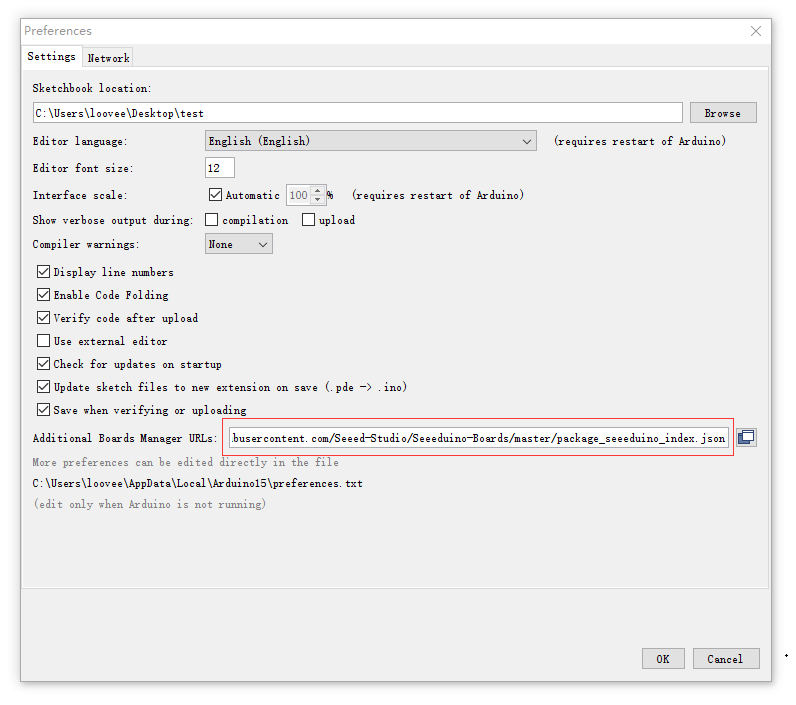
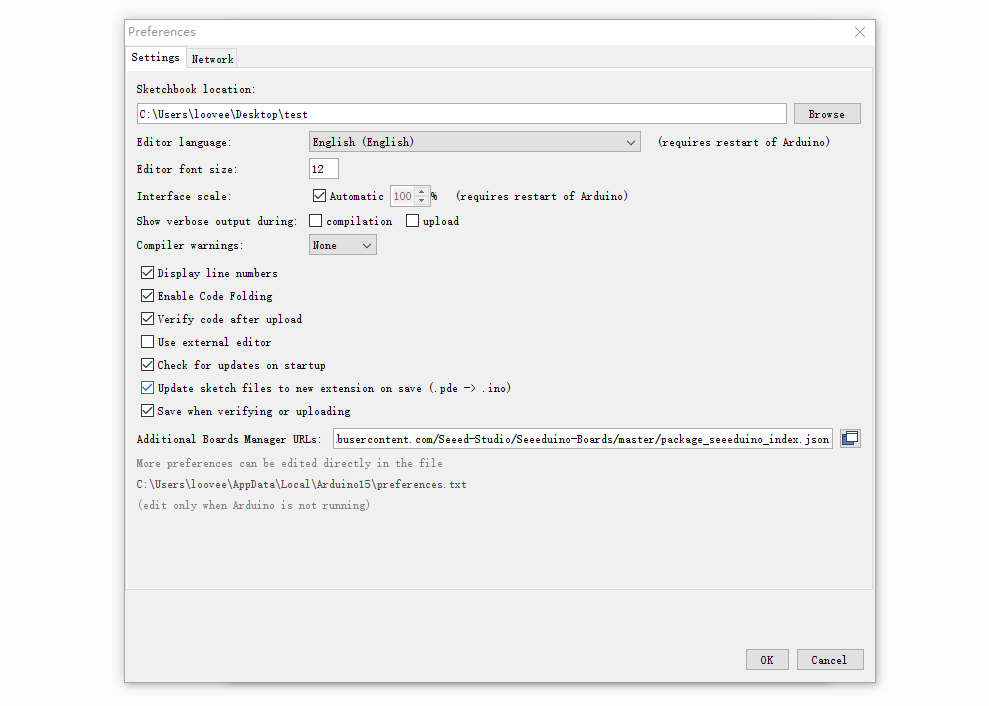
.

Changed region(s): [[0.0, 0.0312, 0.995, 0.9986], [0.0302, 0.9674, 0.1206, 0.9986], [0.7538, 0.905, 0.7839, 0.9674]]

diff --git a/SeeeduinoV4.2.md b/SeeeduinoV4.2.md
@@ -1,30 +1,68 @@
-#Seeeduino V4.2
+#Seeeduino V4
 -------
 ##Introduction
 
-Seeeduino v4.2 is an Open Source, Arduino-compatible ATmega328 MCU development board. We think Seeeduino v4.2 is one of the best Arduino derivatives/compatibles available. Seeeduino v4.2 is feature rich, much more stable, easy-to-use and even good looking.
+![enter image description here](https://raw.githubusercontent.com/SeeedDocument/SeeeduinoV4/master/images/cover.JPG)
 
-Seeeduino v4.2 is based the Arduino UNO bootloader, an ATmega16U2 as a UART-to-USB converter (basically work like an FTDI USB2UART chip). The board comes with an additional set of through-hole pads for all pins. These pads are aligned to 0.1" grid. This makes it easy to solder additional pin-headers to plug into breadboard or create your own attachment/shield with 0.1" dot-matrix general purpose PCBs.
+Seeeduino v4 is an Open Source, Arduino-compatible ATmega328 MCU development board. We think Seeeduino v4 is one of the best Arduino derivatives/compatibles available. Seeeduino v4 is feature rich, much more stable, easy-to-use and even good looking.
+
+Seeeduino v4 is based the Arduino UNO bootloader, an ATmega16U2 as a UART-to-USB converter (basically work like an FTDI USB2UART chip). The board comes with an additional set of through-hole pads for all pins. These pads are aligned to 0.1" grid. This makes it easy to solder additional pin-headers to plug into breadboard or create your own attachment/shield with 0.1" dot-matrix general purpose PCBs.
 
 
 You can program the board via a micro-USB cable. Also, you can power the board via a DC Jack input (7 to 15V DC) is acceptable. There is a switch to choose the system's supply voltage either 3.3V or 5V, which is very useful if you want to set the system to 3.3V to interact with low voltage sensors.
 
 Finally, the three on-board Grove interfaces can make your board connect to Grove modules easily. Want to make something awesome, maybe just a Seeeduino v4.2 and some Groves is enough.
 
-![](http://www.seeedstudio.com/wiki/images/7/7a/SeeeduinoV4.2_View.JPG)
 
 
+###Version
+
+This document applies to the following version of products:
+
+|Version|Released Date|How to Buy|
+|--------|-----------|-----------|
+|Seeeduino V4.0 |Aug 15, 2014|![enter image description here](https://raw.githubusercontent.com/SeeedDocument/Seeed-WiKi/master/docs/images/EOL.png)|
+|Seeeduino V4.2 |Aug 24, 2015|[![enter image description here](https://raw.githubusercontent.com/SeeedDocument/Seeed-WiKi/master/docs/images/get_one_now_small.png)](http://www.seeedstudio.com/Seeeduino-V4.2-p-2517.html)|
+
+###What's New in Seeeduino V4.2
+
+There're many updates from V4.0 to V4.2. Listed below:
+
+- Cancel some pad on the top left corner.
+- Change the usb location to middle
+- Improve DCDC circuit to get a better performance
+- Add an I2C Grove connector
+- Change some silkscreen and part location
+
+##Application Ideas
+
+* DIY
+* IoT and Smart Home
+* Robot
+* Learning
+
+Here is some funny project for your reference.
+
+|Paper Man|Fingerprint Lock|Monitor Stand|
+|-------|-------|-------|
+|![](https://raw.githubusercontent.com/SeeedDocument/SeeeduinoV4/master/images/project1.jpg)|![enter image description here](https://raw.githubusercontent.com/SeeedDocument/SeeeduinoV4/master/images/project2.jpg)|![enter image description here](https://raw.githubusercontent.com/SeeedDocument/SeeeduinoV4/master/images/project3.jpg)|
+| [Make it Now](http://www.instructables.com/id/Paper-Man-a-machine-created-by-Arduino-and-NFC/) | [Make it Now](http://www.instructables.com/id/Door-to-Open-Source-Hardware-A-fingerprint-lock-so/) | [Make it Now](http://www.instructables.com/id/DIY-a-Programmable-Acrylic-Monitor-Stand/)|
+
+|Desk Promo|Tiger Machine|Colorful Pyramid|
+|-------|-------|-------|
+|![](https://raw.githubusercontent.com/SeeedDocument/SeeeduinoV4/master/images/project4.jpg)|![enter image description here](https://raw.githubusercontent.com/SeeedDocument/SeeeduinoV4/master/images/project5.jpg)|![enter image description here](https://raw.githubusercontent.com/SeeedDocument/SeeeduinoV4/master/images/project6.jpg)|
+| [Make it Now](http://www.instructables.com/id/Desk-promo/) | [Make it Now](http://www.instructables.com/id/How-to-Make-Your-Tiny-Tiger-Machine/) | [Make it Now](http://www.instructables.com/id/DIY-a-colorful-pyramid/)|
 
 ##Features
 
+- Fully compatible with Arduino UNO
 - ATmega328 microcontroller
-- Arduino UNO bootloader
 - 14 Digital I/O Pins (6 PWM outputs)
 - 6 Analog Inputs
 - ISP Header
 - Arduino UNO-R3 Shield Compatible
 - Micro USB programming and power supply
-- 3 on-board Grove connectors
+- On-board Grove connectors
 - 3.3/5V system operation power switch
 - Additional pads aligned to 0.1" grid
 
@@ -39,7 +77,6 @@ Finally, the three on-board Grove interfaces can make your board connect to Grov
 |5V Pin | With DC Jack Power	2000mA Max|
 |3V3 Pin|	500mA Max|
 |DC Current per I/O Pin	|40mA|
-|Other specifications|
 |Flash Memory|	32 KB|
 |RAM|	2 KB|
 |EEPROM	|1 KB|
@@ -49,22 +86,26 @@ Finally, the three on-board Grove interfaces can make your board connect to Grov
 
 
 #Hardware Overview
-The images below shows an overview of Seeeduino v4.2 hardware features. The pin-out and alternate functions of various pins of Seeeduino v4.2 are shown in the pin-out diagram. This could be used as a quick reference.
 
-![enter image description here](http://www.seeedstudio.com/wiki/images/thumb/d/d1/SeeeduinoV4.2_Hw_overview.JPG/750px-SeeeduinoV4.2_Hw_overview.JPG)
+!!!Note
+    This part is based on Seeeduino V4.2
+
+The images below show an overview of Seeeduino v4.2 hardware features. The pin-out and alternate functions of various pins of Seeeduino v4.2 are shown in the pin-out diagram. This could be used as a quick reference.
+
+![enter image description here](https://raw.githubusercontent.com/SeeedDocument/SeeeduinoV4/master/images/hardware.JPG)
 
 - **LED-D13**
 An LED is connected to D13 pin of the board. This can be used as an on-board LED indicator for programs/sketches.
 - **USB Input**
 USB Port is used to connect the board to your PC for programming and for powering up. Micro USB is the ubiquitous version of USB, found in most Android phones, and other devices. You probably have dozens of these cables laying around your house.
 - **RX/TX Indicator**
-The TX and RX LED indicators are connected to Txd and Rxd of USB-to-UART chip. They work automatically, they let you know when the board is sending or receiving data respectively.
+The TX and RX LED indicators are connected to TX and RX of USB-to-UART chip. They work automatically, they let you know when the board is sending or receiving data respectively.
 - **System Power Switch**
-Slide switch is used to change the logic level and operating voltage of the board to either 5V or 3.3V. Nowadays, many new and great sensors are being developed to work only with 3.3V, with other *duino boards you would need to place a logic level converter between the board and these sensor(s). With the Seeeduino V4.2 board all you have to do is slide the switch!
+Slide switch is used to change the logic level and operating voltage of the board to either 5V or 3.3V. Nowadays, many new and great sensors are being developed to work only with 3.3V, with other Arduino boards you would need to place a logic level converter between the board and these sensor(s). With the Seeeduino V4 board all you have to do is slide the switch!
 - **DC Input**
-The DC power jack allows your Seeeduino board to be powered from a wall adapter so that you can supply more power to your project if needed. For example when using DC motors or other high power devices. The DC input can be 7V-15V.
+The DC power jack allows your Seeeduino board to be powered from a wall adapter so that you can supply more power to your project if needed. For example, when using DC motors or other high power devices. The DC input can be 7V-15V.
 - **Reset**
-This button is conveniently placed on the side to allow you to reset the Seeeduino board even when a shield is placed on top. This is not the case in other -duino boards where the button is placed on top making it hard to access.
+This button is conveniently placed on the side to allow you to reset the Seeeduino board even when a shield is placed on top. This is not the case in other Arduino boards where the button is placed on top making it hard to access.
 - **Power Pins & Analog Pins**
 Just like the extra Digital header pads, these extra connections are something we have personally come to realize people need in their projects, especially the power connections if you want to power more than one sensor/device without the use of a breadboard.
 - **Grove Connectors**
@@ -74,95 +115,84 @@ This is the ICSP connection for the ATmega328P, it is located in the standard IC
 - **USB 2 Uart**
 Pinout of USB-2-Uart. These pads can be used to interact with other UART devices by putting the on-board ATmega328 in reset mode. This makes Seeeduino V4.2 to be used a USB2UART utility board.
 - **Additional 0.1" Grid aligned header Pads**
-Sometimes it is very convenient to connect a sensor/device to your board directly instead of going through a breadboard, or perhaps you want to solder the sensor directly to the board once you've completed your project, or maybe you want to monitor the output of the pins while they're been used by other devices. In any cases we have added these extra pads to help you along the way. These pads are aligned in 0.1" grid and can conveniently work with general purpose dot-matrix PCBs .
+Sometimes it is very convenient to connect a sensor/device to your board directly instead of going through a breadboard, or perhaps you want to solder the sensor directly to the board once you've completed your project, or maybe you want to monitor the output of the pins while they're been used by other devices. In any cases we have added these extra pads to help you along the way. These pads are aligned in 0.1" grid and can conveniently work with general purpose dot-matrix PCBs.
 
-**Note**: Take gentle care in handling micro USB socket, or you might break the socket off.
+!!!Warning
+    Take gentle care in handling micro USB socket, or you might break the socket off.
 
-##Getting Started
-The general steps in using Seeeduino v4.2 are
+##Install the Driver
 
-1. Download Arduino IDE software (for your platform)
-2. Install Drivers based on OS platform
-3. Compile and run your first sketch
+First of all, you need to:
 
-Let us see how to get started in detail based on OS platform.
-
-##Getting Started on Windows
-
-This part is based on the [Getting Started with Arduino on Windows](https://www.arduino.cc/en/Guide/Windows), click to view the original page.
-
-###Get a Micro-USB cable
-You need a Micro-USB cable first, the data cable of an Android Phone will do fine.
+* **Get a Micro-USB cable**
+    * You need a Micro-USB cable first; the data cable of an Android Phone will do fine.
 If you can't find one, you can buy one [here](http://www.seeedstudio.com/depot/Micro-USB-Cable-48cm-p-1475.html?cPath=98_100).
 
-###Download the Arduino Software (IDE)
-Get the latest version from the [download page](https://www.arduino.cc/en/Main/Software). When the download finishes, unzip the downloaded file.
+* **Connect the board**
+    * The Seeeduino V4.2 automatically draw power from either the USB connection to the computer or an external power supply. Connect the Arduino board to your computer using the USB cable. The green power LED (labelled **PWR**) should go on.
 
-###Connect the board
-The Seeeduino V4.2 automatically draw power from either the USB connection to the computer or an external power supply.
-Connect the Arduino board to your computer using the USB cable. The green power LED (labelled **PWR**) should go on.
 
-###Install the drivers
-####Installing drivers for the Seeeduino V4.2 with **Windows 7**, **Vista**, or **XP**
+###For Windows
+
+!!!Note
+    This drive is available for Windows XP, Windows Vista, Windows 7, Windows 8/8.1 and Windows 10.
+    
+[![enter image description here](https://raw.githubusercontent.com/SeeedDocument/SeeeduinoV4/master/images/download_driver.png)](https://github.com/Seeed-Studio/Signed_USB_Serial_Driver/archive/master.zip)
+
 - Plug in your board and wait for Windows to begin its driver installation process. After a few moments, the process will fail, despite best efforts.
 - Click on the Start Menu, and open up the Control Panel.
-- While in the Control Panel, navigate to System and Security. Next, click on System. Once the System window is up, open the Device Manager.
-- Look under Ports (COM & LPT). You should see an open port named "Seeeduino v4". If there is no COM & LPT section, look under "Other Devices" for "Unknown Device".
+- While in the Control Panel, navigate to System and Security. Next, click on System. Once the System window is up, open the **Device Manager**.
+- Look under Ports (COM & LPT). You should find an open port named "Seeeduino v4". If there is no COM & LPT section, look under "Other Devices" for "Unknown Device".
 - Right click on the "Seeeduino v4" port and choose the "Update Driver Software" option.
 - Next, choose the "Browse my computer for Driver software" option.
-- Download Driver for Seeeuino V4.2, and unzip to your PC.
 - Finally, navigate to and select the driver file named "SeeeduinoV4.inf"
 - Windows will finish up the driver installation from there.
-####Installing drivers for the Seeeduino V4.2 with Windows 8/8.1
-Firstly, you should disable the digital signature verification of your system. Follow the steps listed below:
-You should save these files which you are editing before installing driver in Window 8，because there will several power off/on during the operation.
-- Press “Windows Key” +”R”
-- Enter shutdown.exe /r /o /f /t 00
-- Click the "OK" button.
-- System will restart to a "Choose an option" screen
-- Select "Troubleshoot" from "Choose an option" screen
-- Select "Advanced options" from "Troubleshoot" screen
-- Select "Windows Startup Settings" from "Advanced options" screen
-- Click "Restart" button
-- System will restart to "Advanced Boot Options" screen
-- Select "Disable Driver Signature Enforcement"
-- Once the system starts, you can install the Seeeduino driver.
-- And the rest of the steps are same as Win7.
 
-![enter image description here](http://www.seeedstudio.com/wiki/images/c/cb/Seeeduino_v4.2_driver_1.jpg)
+###For Mac OSX
 
-![enter image description here](http://www.seeedstudio.com/wiki/images/8/80/Seeeduino_v4.2_driver_2.jpg)
+You don't need to install any drivers. 
 
-![enter image description here](http://www.seeedstudio.com/wiki/images/8/89/Seeeduino_v4.2_driver_3.jpg)
 
-![enter image description here](http://www.seeedstudio.com/wiki/images/8/80/Seeeduino_v4.2_driver_4.jpg)
+##Getting Started
 
-![enter image description here](http://www.seeedstudio.com/wiki/images/8/83/Seeeduino_v4.2_driver_5.jpg)
+!!!Note
+    This part is based on Arduino 1.6.9 under Windows 10.
+    
+First of all, you need to Install an Arduino Software.
 
-![enter image description here](http://www.seeedstudio.com/wiki/images/0/03/Seeeduino_v4.2_driver_6.jpg)
+[![](https://raw.githubusercontent.com/SeeedDocument/Seeeduino_Stalker_V3_1/master/images/Download_IDE.png)](https://www.arduino.cc/en/Main/Software)
 
-![enter image description here](http://www.seeedstudio.com/wiki/images/6/6d/Seeeduino_v4.2_driver_7.jpg)
-
-![enter image description here](http://www.seeedstudio.com/wiki/images/0/00/Seeeduino_v4.2_driver_8.jpg)
 
 ###Launch the Arduino application
-Double-click the Arduino application (arduino.exe) you have previously downloaded. (Note: if the Arduino Software loads in a different language, you can change it in the preferences dialog. See the [Arduino Software (IDE) page](https://www.arduino.cc/en/Guide/Environment#languages) for details.)
+Double-click the Arduino application (arduino.exe) you have previously downloaded. 
+
+!!!Note
+    If the Arduino Software loads in a different language, you can change it in the preferences dialog. See the [Arduino Software (IDE) page](https://www.arduino.cc/en/Guide/Environment#languages) for details.
+
 
 ###Open the Blink example
 Open the LED blink example sketch: **File > Examples >01.Basics > Blink**.
 
-![enter image description here](http://www.seeedstudio.com/wiki/images/thumb/b/b1/Seeeduino_v4.2_blink.jpg/600px-Seeeduino_v4.2_blink.jpg)
+![enter image description here](https://raw.githubusercontent.com/SeeedDocument/SeeeduinoV4/master/images/blink.png)
+
+###Add Seeeduino to your Arduino IDE
+
+Click on **File > Preference**, and fill Additional Boards Manager URLs with below url:
+    *https://raw.githubusercontent.com/Seeed-Studio/Seeeduino-Boards/master/package_seeeduino_index.json*
+
+Click OK to finish the setting. Then Click on **Tools > Board > Boards Manager**, find **Seeeduino by Seeed Studio**, and Install it.
+
 
 ###Select your board
 You'll need to select the entry in the **Tools > Board** menu that corresponds to your Arduino.
-Selecting an **Arduino Uno**:
-
-![enter image description here](http://www.seeedstudio.com/wiki/images/thumb/9/99/Seeduino_4.2_choose_board.jpg/600px-Seeduino_4.2_choose_board.jpg)
-
+Selecting a **Seeeduino V4**.
 
 ###Select your serial port
 Select the serial device of the Arduino board from the Tools | Serial Port menu. This is likely to be COM3 or higher (**COM1** and **COM2** are usually reserved for hardware serial ports). To find out, you can disconnect your Arduino board and re-open the menu; the entry that disappears should be the Arduino board. Reconnect the board and select that serial port.
 
+!!!Note
+    On the Mac, this should be something with **/dev/tty.USBmodem**.
+    
 ###Upload the program
 Now, simply click the "Upload" button in the environment. Wait a few seconds - you should see the RX and TX LED indicators on the board flashing. If the upload is successful, the message "Done uploading." will appear in the status bar.
 
@@ -170,66 +200,59 @@ Now, simply click the "Upload" button in the environment. Wait a few seconds - y
 
 A few seconds after the upload finishes, you should see the pin 13 (L) LED on the board start to blink (in orange). If it does, congratulations! You've gotten Arduino up-and-running. If you have problems, please see the troubleshooting suggestions.
 
-![enter image description here](http://www.seeedstudio.com/wiki/images/d/d5/Seeeduino_v4_2_L.jpg)
-
-##Getting Started on Mac OS X
-
-This part is base on the [Getting Started w/ Arduino on Mac OS X](https://www.arduino.cc/en/Guide/MacOSX), click to view the original page.
-###Download the Arduino environment
-Get the latest version from the [download page](https://www.arduino.cc/en/Main/Software). When the download is finished, double-click the *.zip file. This will expand the Arduino application.
-
-###Install the Software
-Copy the Arduino application into the Applications folder (or elsewhere on your computer).
-
-###Connect the board
-The Seeeduino V4.2 automatically draw power from either the USB connection to the computer or an external power supply. Connect the Arduino board to your computer using the USB cable. The green power LED (labelled PWR) should go on.
-
-###Launch the Arduino application
-Double-click the Arduino application.
-
-**Note**: if the Arduino software loads in the wrong language, you can change it in the preferences dialog. See the [environment page](https://www.arduino.cc/en/Guide/Environment#languages) for details.
-
-###Open the blink example
-Open the LED blink example sketch: **File > Examples > 01.Basics > Blink**.
-
-![enter image description here](http://www.seeedstudio.com/wiki/images/2/2d/Arduino1Blink.png)
-
-###Select your board
-You'll need to select the entry in the Tools > Board menu that corresponds to your Arduino.
-
-![enter image description here](http://www.seeedstudio.com/wiki/images/thumb/3/3f/ToolsMenu.png/600px-ToolsMenu.png)
-
-###Select your Serial Port
-Select the serial device of the Arduino board from the Tools > Serial Port menu. On the Mac, this should be something with /dev/tty.USBmodem (for the Uno or Mega 2560) or /dev/tty.USBserial (for older boards) in it.
-
-![enter image description here](http://www.seeedstudio.com/wiki/images/f/f6/SelectingUno.png)
-
-Selecting an Uno
-
-###Upload the program
-Now, simply click the "Upload" button in the environment. Wait a few seconds - you should see the RX and TX LED indicators on the board flashing. If the upload is successful, the message "Done uploading." will appear in the status bar.
-
-![enter image description here](http://www.seeedstudio.com/wiki/images/b/b2/UploadButton1.png)
-
-A few seconds after the upload finishes, you should see the pin 13 (L) LED on the board start to blink (in orange). If it does, congratulations! You've gotten Arduino up-and-running. If you have problems, please see the troubleshooting suggestions.
+![enter image description here](https://raw.githubusercontent.com/SeeedDocument/SeeeduinoV4/master/images/Seeeduino_v4_2_L.jpg)
 
 ##Getting Started on Linux
 
 For using on Linux, please go to [Installing Arduino on Linux](http://playground.arduino.cc/Learning/Linux)
 
-##Resources/References
+##Resources
 
-**Resources**
-- [Schematic and PCB files Seeeduino V4.2 in EAGLE format](http://www.seeedstudio.com/wiki/images/8/8a/SeeeduinoV4.2.zip)
-- [Schematic of Seeeduino V4.2 in PDF](http://www.seeedstudio.com/wiki/File:Seeeduino_v4.2_sch.pdf)
-- [ATMEGA328P-MU Summary](http://www.atmel.com/Images/Atmel-8271-8-bit-AVR-Microcontroller-ATmega48A-48PA-88A-88PA-168A-168PA-328-328P_datasheet_Summary.pdf)
-- [ATMEGA16U2 Summary](http://www.atmel.com/Images/7799S.pdf)
-- [Other Version of Seeeduino](http://www.seeedstudio.com/wiki/Seeeduino)
-- [Driver for Seeeduino V4.2](http://www.seeedstudio.com/wiki/images/f/fa/Driver_seeeduino_v4.2.zip)
-**References**
-- [Getting Started with Arduino](https://www.arduino.cc/en/Guide/HomePage)
-- [Arduino Language Reference](https://www.arduino.cc/en/Reference/HomePage)
-- [Download the Arduino Software(IDE)](https://www.arduino.cc/en/Main/Software)
-- [Arduino FAQ](https://www.arduino.cc/en/Main/FAQ)
-- [Arduino Introduction](https://www.arduino.cc/en/guide/introduction)
-- [Wikipedia page for Arduino](https://en.wikipedia.org/wiki/Arduino)
+* **Schematic**
+    * [Seeeduino V4.2 in EAGLE file](https://github.com/SeeedDocument/SeeeduinoV4/raw/master/resources/SeeeduinoV4.2.zip)
+    * [Seeeduino V4.2 in PDF](https://github.com/SeeedDocument/SeeeduinoV4/raw/master/resources/Seeeduino_v4.2_sch.pdf)
+    * [Seeeduino V4.0 in EAGLE file](https://github.com/SeeedDocument/SeeeduinoV4/raw/master/resources/Seeeduino_v4.0_sch.pdf)
+    * [Seeeduino V4.0 in PDF](https://github.com/SeeedDocument/SeeeduinoV4/raw/master/resources/Seeeduino_v4.0_sch.pdf)
+
+* **Datasheet**
+    * [ATmega328P](https://github.com/SeeedDocument/SeeeduinoV4/raw/master/resources/ATmega328.pdf)
+    * [ATmega16U2](https://github.com/SeeedDocument/SeeeduinoV4/raw/master/resources/ATmega16u2.pdf)
+
+* **[Download above all](https://github.com/SeeedDocument/SeeeduinoV4/raw/master/resources/resources_seeeduino_v4.zip)**
+
+* **References**
+    * [Getting Started with Arduino](https://www.arduino.cc/en/Guide/HomePage)
+    * [Arduino Language Reference](https://www.arduino.cc/en/Reference/HomePage)
+    * [Download the Arduino Software(IDE)](https://www.arduino.cc/en/Main/Software)
+    * [Arduino FAQ](https://www.arduino.cc/en/Main/FAQ)
+    * [Arduino Introduction](https://www.arduino.cc/en/guide/introduction)
+    * [Wikipedia page for Arduino](https://en.wikipedia.org/wiki/Arduino)
+
+##FAQ
+
+####Q1. What's the different between Arduino UNO and Seeeduino V4
+
+Seeeduino V4 is fully compatible with Arduino UNO. The mainly difference list below:
+
+* Use a micro USB to power and program the board
+* 3 on-board Grove connector
+* 3.3/5V system power switch
+* DCDC circuit instead of LDO, more efficiency
+* Others circuit improve
+
+####Q2. I can't upload my sketch to Seeeduino V4
+
+Please check,
+
+* If the Power LED on
+* If you choose the right Port and Board (Seeeduino V4)
+* Close and reopen Arduino IDE and try again
+
+####Q3. Where can I find technical support if I have some other issue. 
+
+You can post a question to [Seeed Forum](http://www.seeed.cc/discover.html?t=Arduino) or send an email to **techsupport@seeed.cc**.
+
+
+##Help us to make it better
+
+<iframe style="height: 600px; width: 700px; margin: 10px 0 10px;" allowTransparency="true" src="https://www.surveymonkey.com/r/YMJVL8N" frameborder="0"></iframe>
